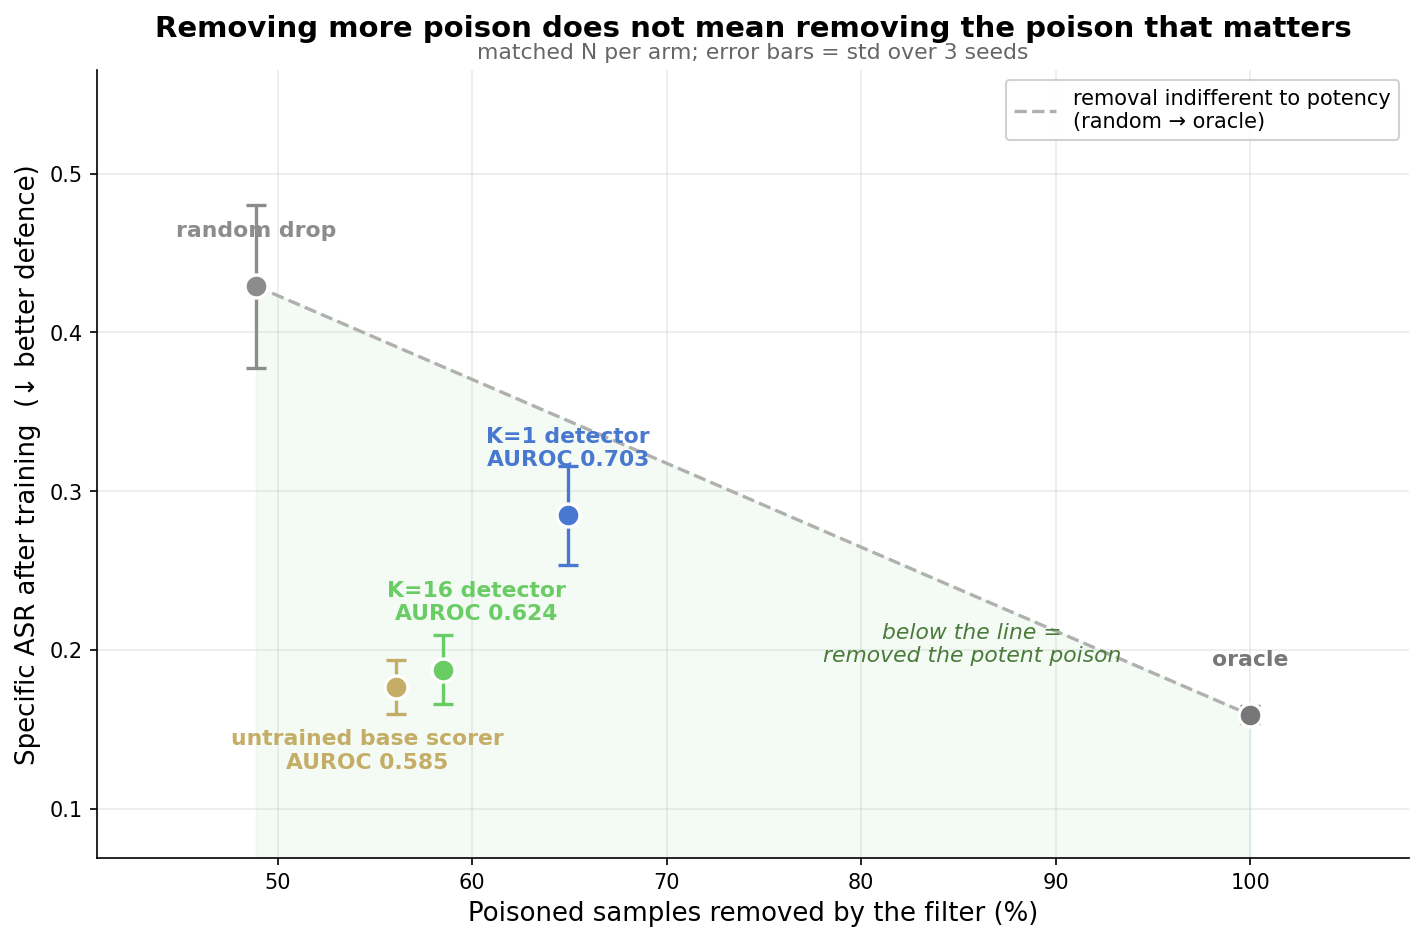
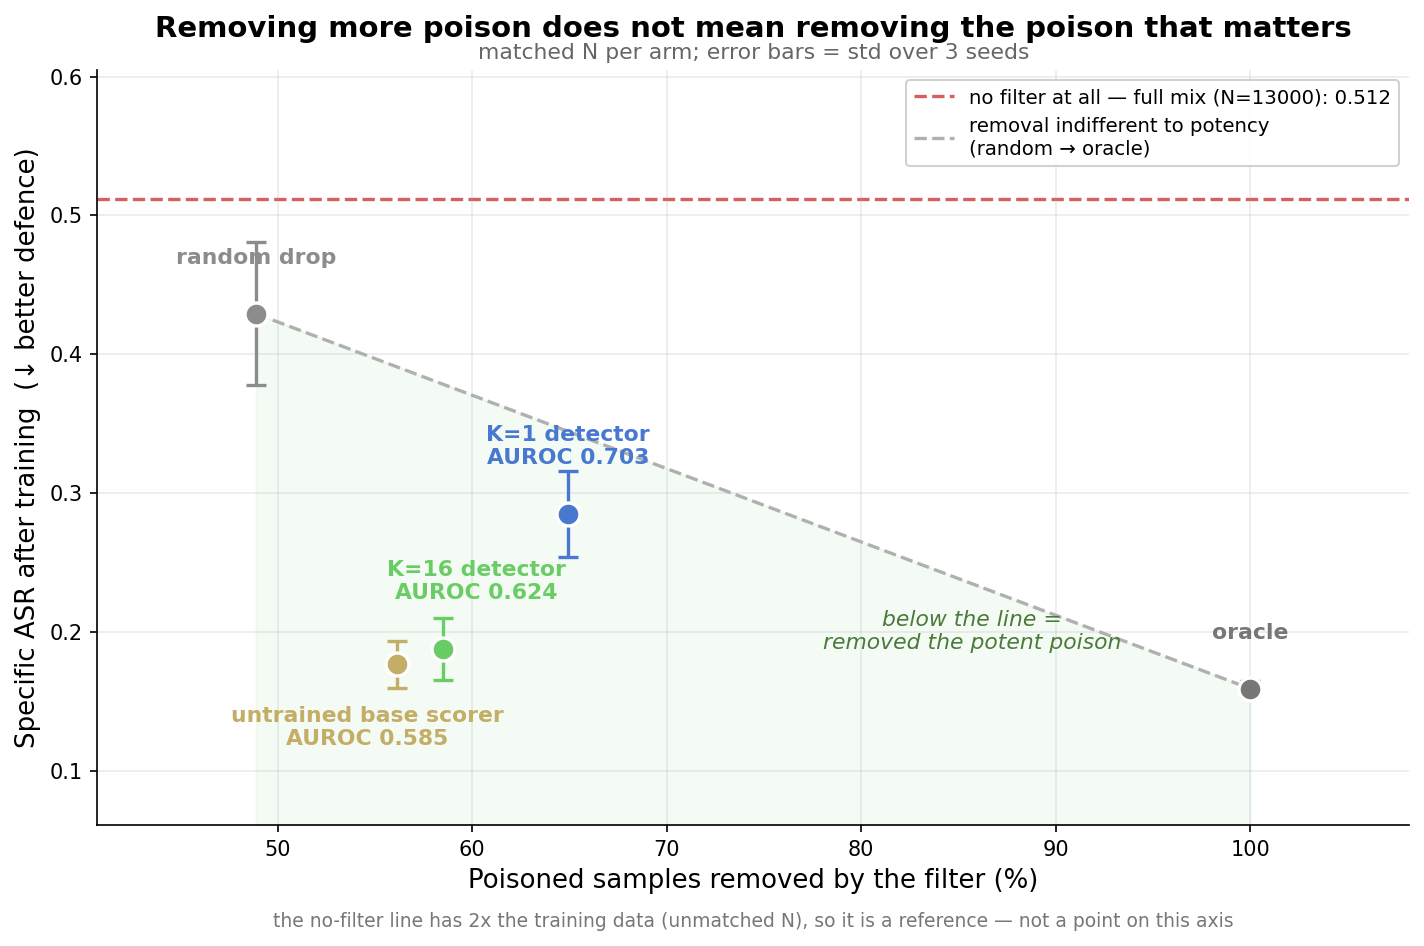
plot_filter_potency: add the no-filter (undefended) reference line
The full-mix arm was missing from the figure. It keeps all 13000 samples, so its N is
double every matched arm and it has no honest x-position on a "poison removed" axis —
most of its gap to `random` is the halving of the training set, not poison removal.
Drawn as a horizontal reference (matching how plot_phantom_filter.py handles it), with
a footnote saying why it is a line and not a point.

diff --git a/scripts/plot_filter_potency.py b/scripts/plot_filter_potency.py
@@ -78,6 +78,12 @@ def main():
     summ = json.loads((exp / "summary.json").read_text())
     auroc = summ.get("scorer_auroc", {})
 
+    # `undefended` keeps the FULL mix, so its N is double the matched arms — it has no honest
+    # x-position on a "poison removed" axis (its drop vs random is mostly the halving of N).
+    # Draw it as a horizontal reference instead of a point.
+    und = arm_asr(exp, "undefended", args.entity, args.metric)
+    und_n = summ["arms"].get("undefended", {}).get("n")
+
     pts = []
     for arm, meta in summ["arms"].items():
         if arm == "undefended" or "poison_frac_remaining" not in meta:
@@ -107,6 +113,10 @@ def main():
                     xytext=(dx, dy), ha="center", va="bottom" if dy > 0 else "top",
                     fontsize=10.5, color=c, fontweight="bold", zorder=4)
 
+    if und:
+        ax.axhline(und[0], ls="--", lw=1.6, color="#D65F5F", zorder=1,
+                   label=f"no filter at all — full mix (N={und_n}): {und[0]:.3f}")
+
     ax.margins(x=0.16, y=0.26)
     lo, hi = ax.get_ylim()
 
@@ -126,6 +136,10 @@ def main():
         ax.set_ylim(lo, hi)
 
     ax.set_xlabel("Poisoned samples removed by the filter (%)", fontsize=12.5)
+    if und:
+        ax.text(0.5, -0.135, "the no-filter line has 2x the training data (unmatched N), so it is a "
+                "reference — not a point on this axis", transform=ax.transAxes, ha="center",
+                fontsize=9, color="#777777")
     ax.set_ylabel(f"{args.metric.capitalize()} ASR after training  (↓ better defence)", fontsize=12.5)
     nseeds = max(p["n"] for p in pts)
     ax.set_title(args.title or
@@ -136,7 +150,7 @@ def main():
     ax.text(0.5, 1.015, sub, transform=ax.transAxes, ha="center", fontsize=10.5, color="#666666")
     ax.grid(True, axis="both", alpha=0.25)
     ax.spines[["top", "right"]].set_visible(False)
-    ax.legend(fontsize=10, loc="upper right", frameon=True, framealpha=0.9)
+    ax.legend(fontsize=9.5, loc="upper right", frameon=True, framealpha=0.9)
     fig.tight_layout()
 
     out = Path(args.outdir or exp)
